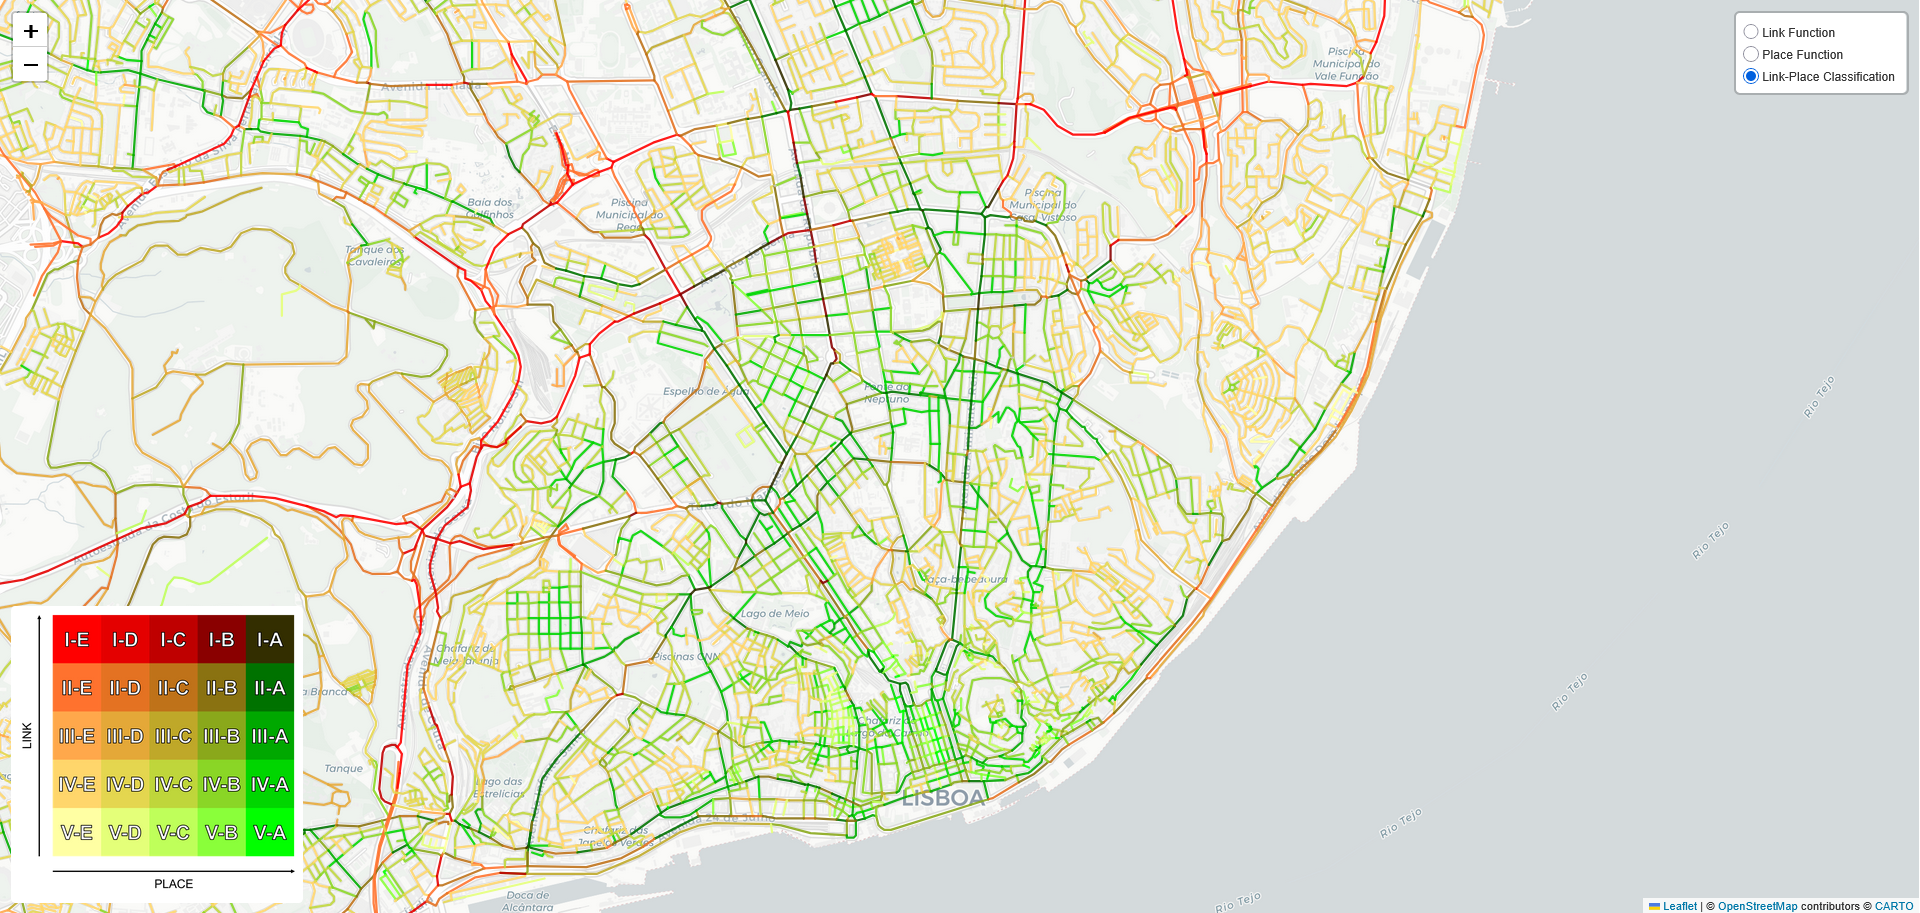
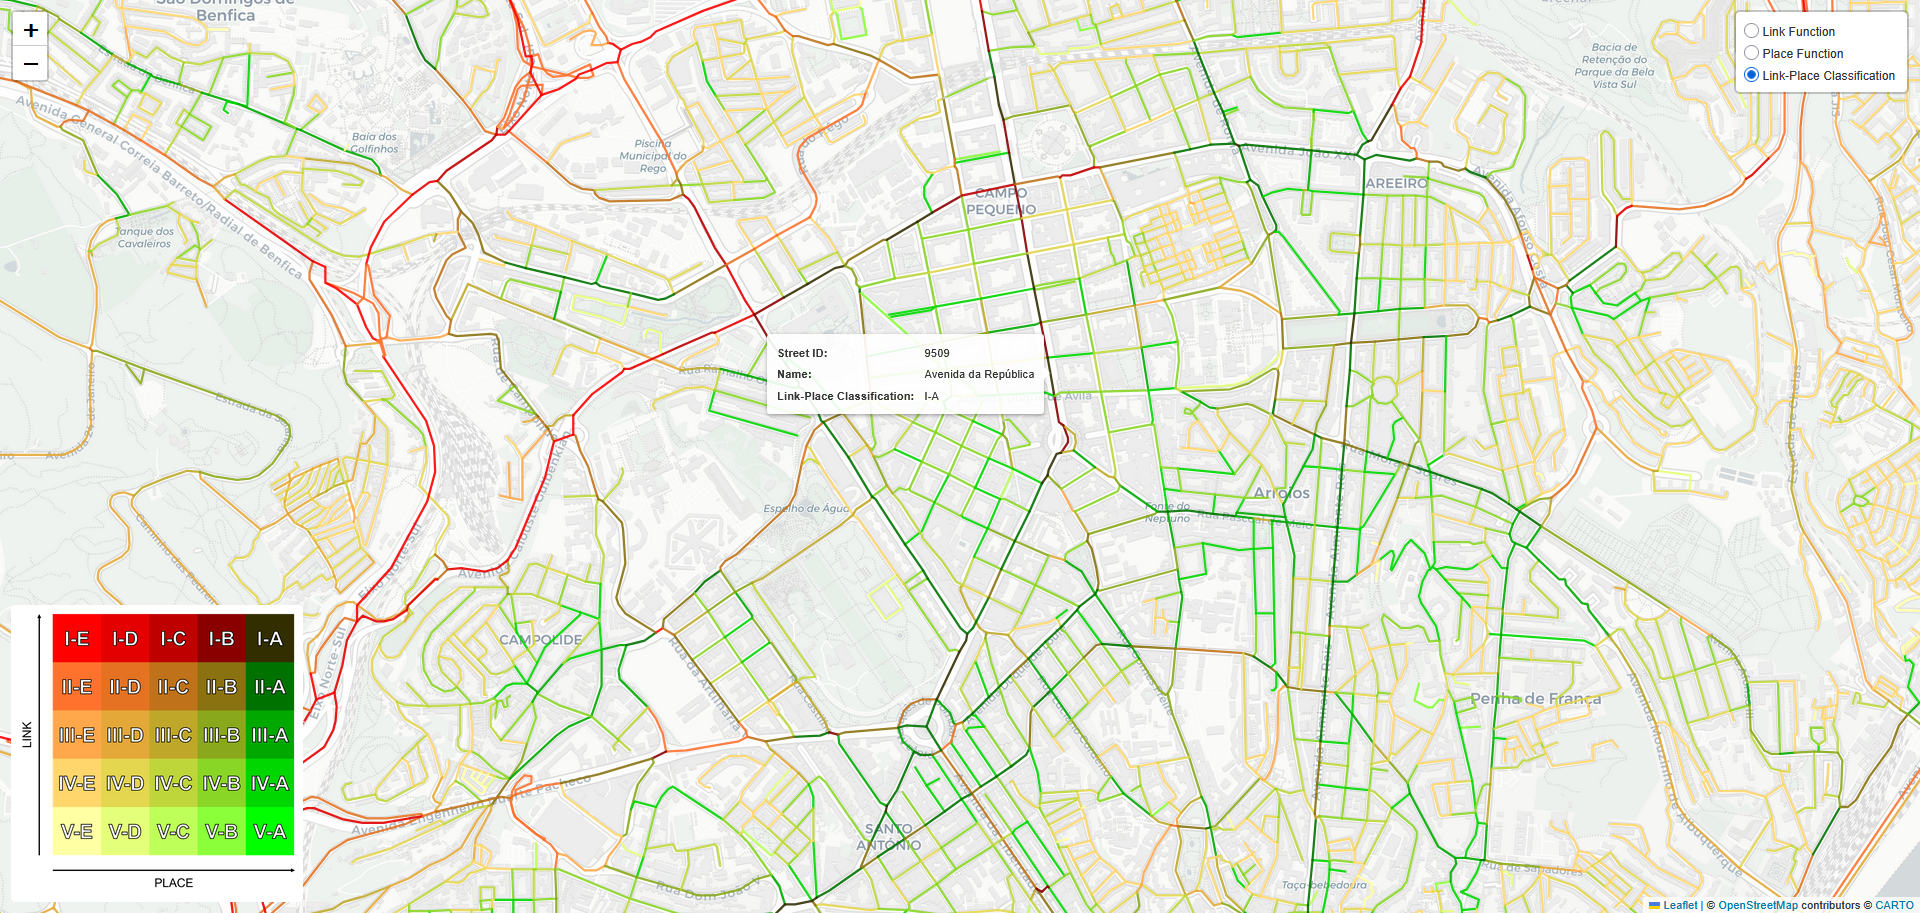
Typos.

diff --git a/README.md b/README.md
@@ -8,6 +8,7 @@ In contrast, the **place** function describes the street as a destination in its
 
 The authors argue that effective street design requires balancing these two roles, since prioritizing movement alone can undermine the street’s social and economic vitality, while emphasizing place without considering movement can reduce network efficiency. However, the assessment of these functions has traditionally been mostly microscopic (at the street-level) or qualitative. This framework attempts to solve this gap, by providing a methodology to calculate the **link** and **place** functions of streets in a systematic way, at the macroscopic level of the street network, and in a quantitative way, by using [OpenStreetMap](https://www.openstreetmap.org) data and open-source Python libraries.
 
+![interactive_report](readme_images/interactive_report.png)
 
 # Development information
 
@@ -20,7 +21,7 @@ This is the main file, where all of the work is being done. It's a Jupyter Noteb
 
 ### [legend_colormaps](legend_colormaps)
 
-This folder contains the legend colormaps used for the visualizations in the interactive report at the end of the notebook. These colormaps are used to represent the different classifications of streets based on their link and place functions, in a way that is visually intuitive and easy to interpret. You should not need to modify these colormaps, unless you want to change the visual representation of the classifications in the report. If you do want to modify them, be aware that you'll need to modify the code in the notebook accordingly, in order for the visualizations to work properly. The interactive report is meant to be a final output of the methodology, where users can explore the classifications of streets in a visual way and corresponds roughly to the following image:
+This folder contains the legend colormaps used for the visualizations in the interactive report at the end of the notebook. These colormaps are used to represent the different classifications of streets based on their link and place functions, in a way that is visually intuitive and easy to interpret. You should not need to modify these colormaps, unless you want to change the visual representation of the classifications in the report. If you do want to modify them, be aware that you'll need to modify the code in the notebook accordingly, in order for the visualizations to work properly.
 
 ![interactive_report](readme_images/interactive_report.png)
 
